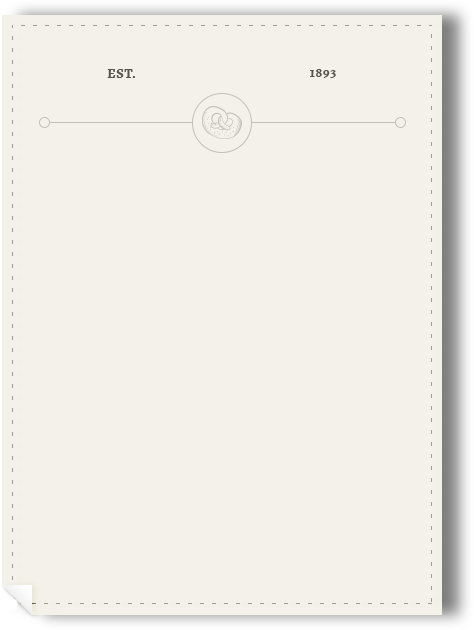
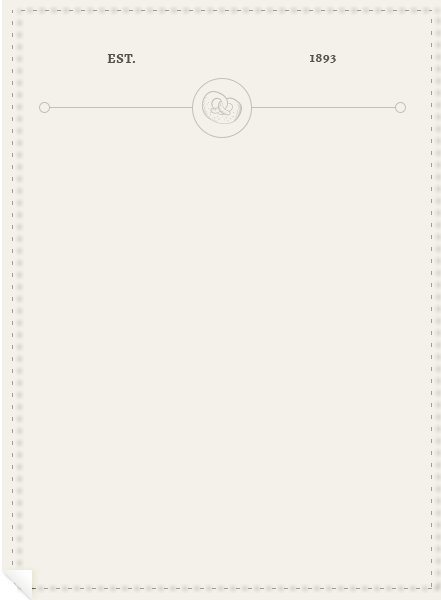
Садаптировала блок с завтраками

diff --git a/src/scss/_breakfast.scss b/src/scss/_breakfast.scss
@@ -1,5 +1,6 @@
 .breakfast {
 	padding-top: 84px;
+	padding-bottom: 30px;
 	height: 760px;
 	background: url("../images/breakfast-bg.png") center no-repeat;
 	background-size: cover;
@@ -7,6 +8,10 @@
 	.container {
 		display: flex;
 		text-align: center;
+
+		@media (max-width: 780px) {
+			flex-direction: column;
+		}
 	}
 
 	.col-1 {
@@ -17,6 +22,14 @@
 		flex-basis: 50%;
 		margin-top: -9px;
 		padding-left: 186px;
+
+		@media (max-width: 1330px) {
+			padding-left: 116px;
+		}
+
+		@media (max-width: 1024px) {
+			padding-left: 0;
+		}
 	}
 
 	&__title {
@@ -70,7 +83,17 @@
 
 	&__sheet {
 		position: relative;
-		width: 442px;
+		width: 434px;
+
+		img {
+			display: block;
+			width: 100%;
+			height: auto;
+
+			@media (max-width: 470px) {
+				display: none;
+			}
+		}
 
 		&__text {
 			position: absolute;
@@ -87,12 +110,22 @@
 				line-height: 60px;
 				letter-spacing: 2px;
 				color: $color-fuscous-gray;
+
+				@media (max-width: 480px) {
+					font-size: 30px;
+					line-height: 40px;
+				}
 			}
 
 			&__description {
 				font-size: 14px;
 				line-height: 30px;
 				color: $color-fuscous-gray;
+
+				@media (max-width: 480px) {
+					font-size: 12px;
+					line-height: 25px;
+				}
 			}
 
 			&__more {
@@ -113,6 +146,24 @@
 					background-color: rgba($color-white, 0.3);
 				}
 			}
+
+			@media (max-width: 470px) {
+				position: static;
+				padding: 10px;
+				background-color: $color-spring-wood;
+			}
 		}
+
+		@media (max-width: 780px) {
+			margin: 0 auto;
+		}
+
+		@media (max-width: 480px) {
+			width: auto;
+		}
+	}
+
+	@media (max-width: 780px) {
+		height: auto;
 	}
 }
